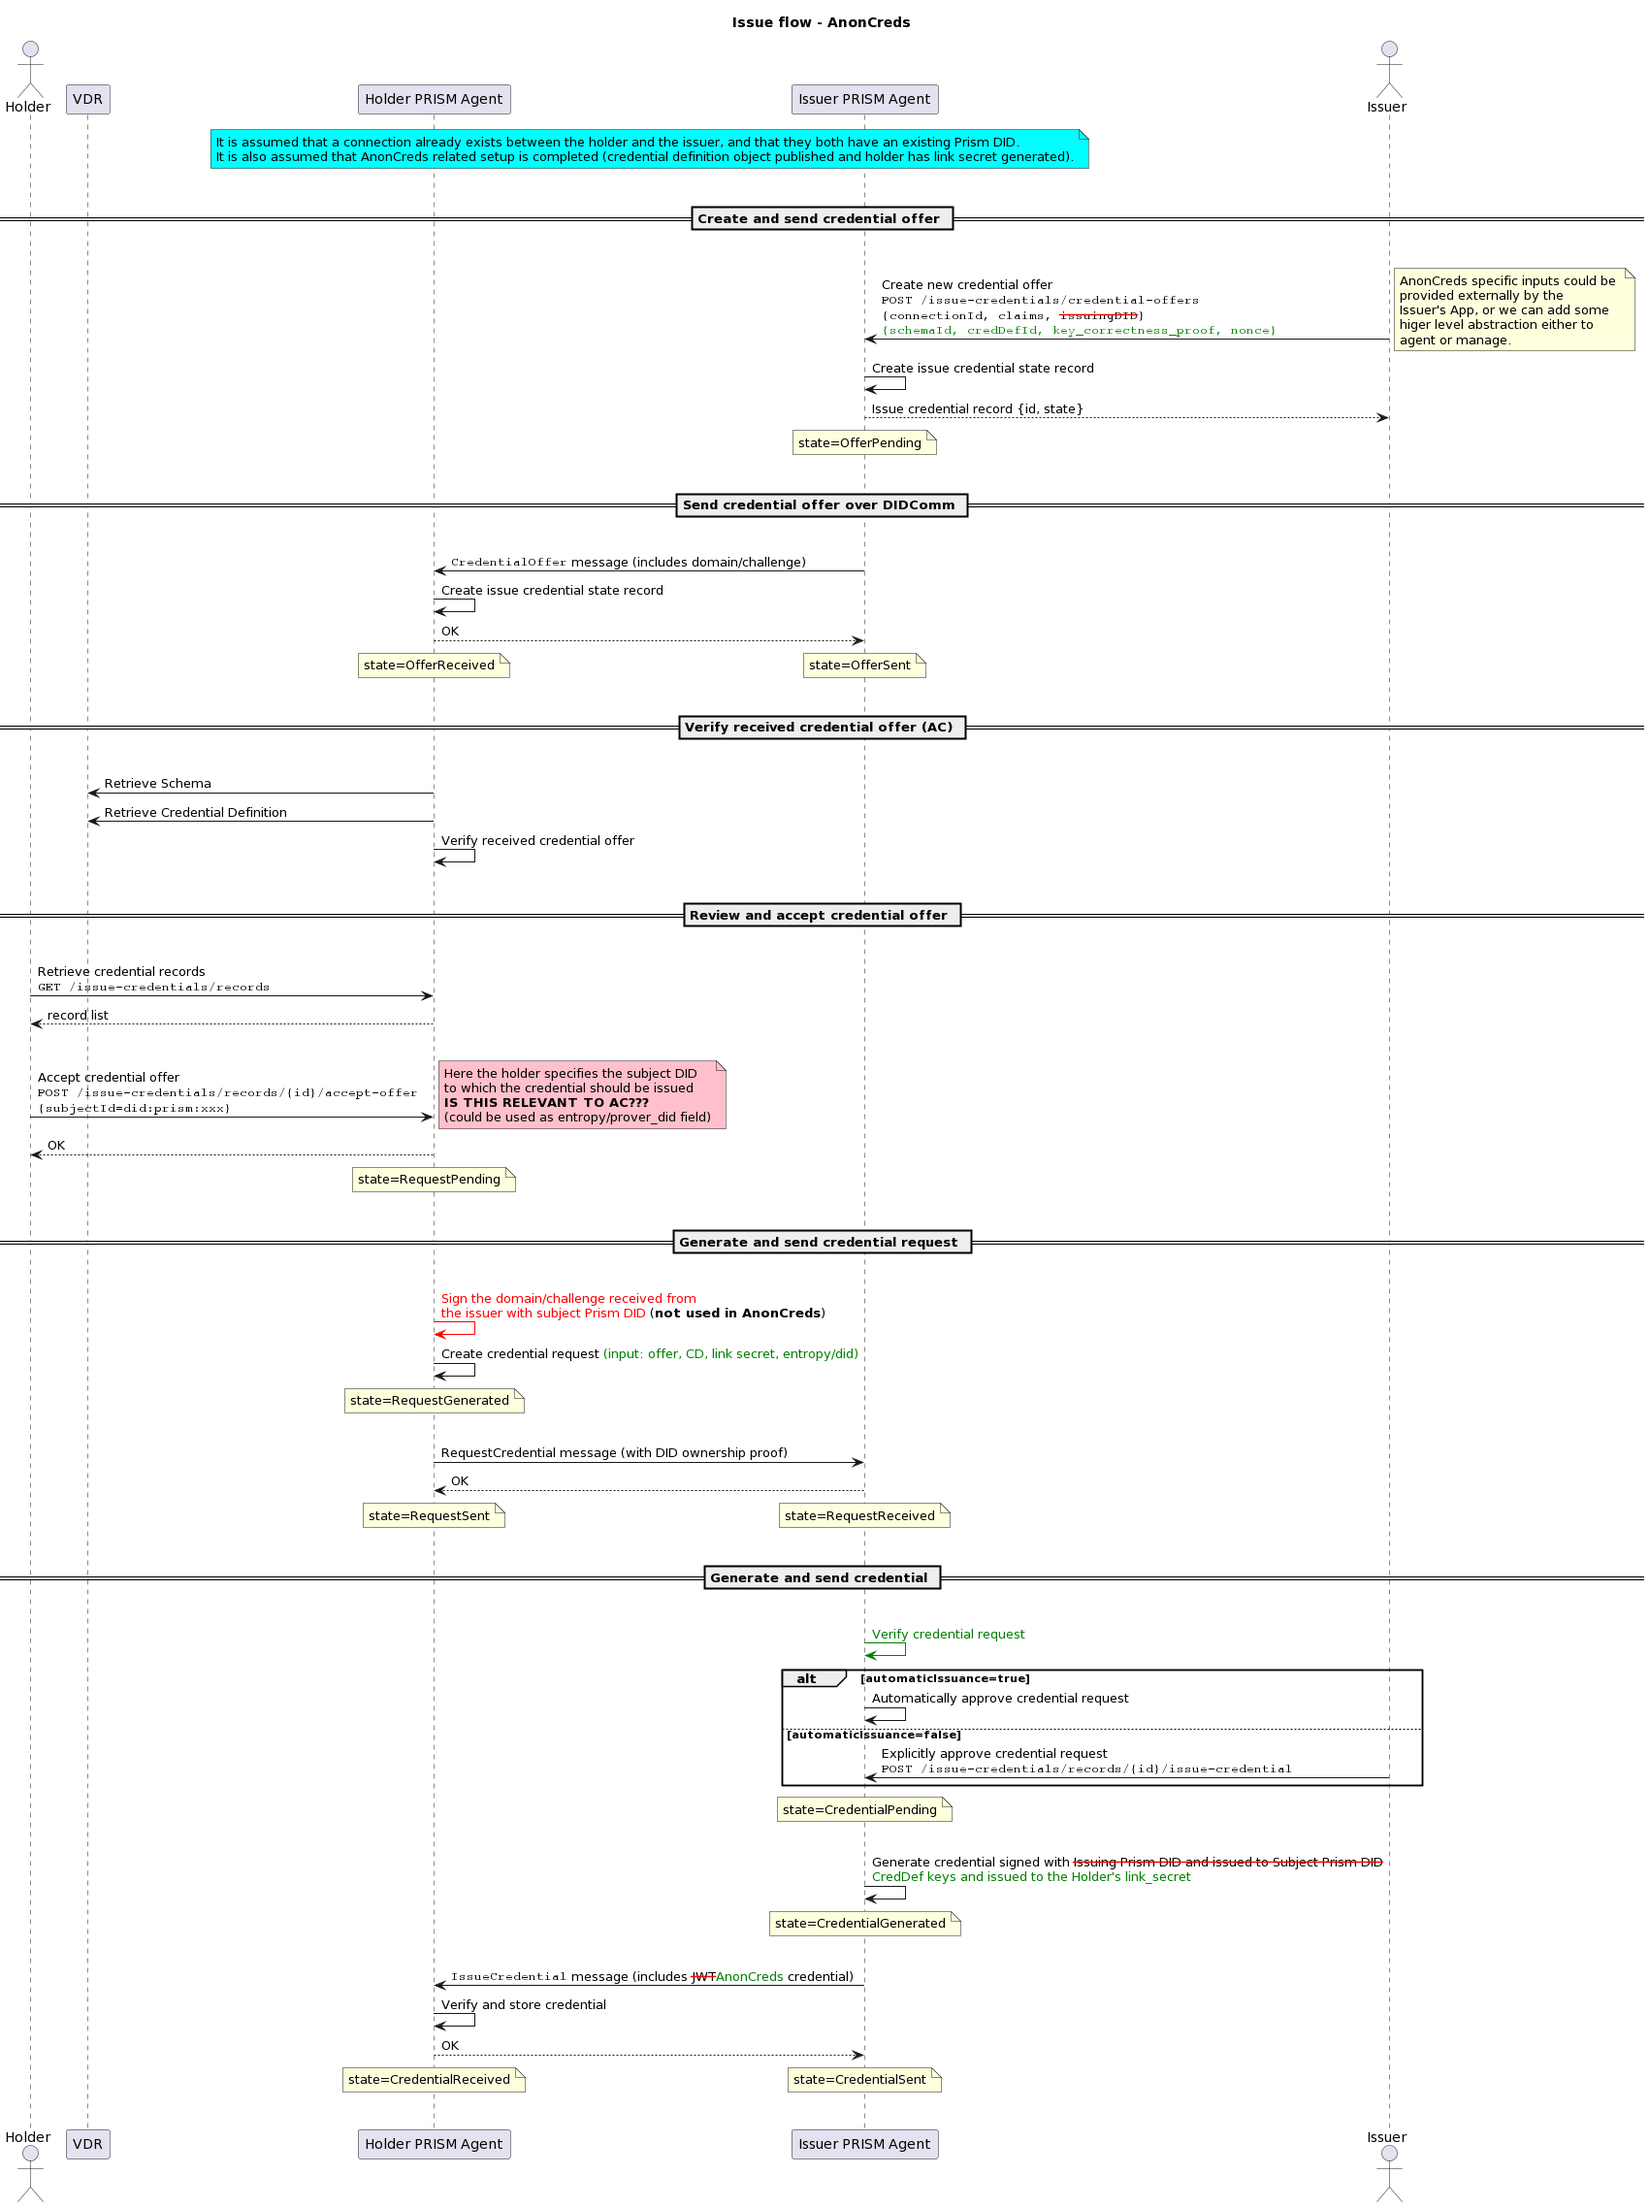
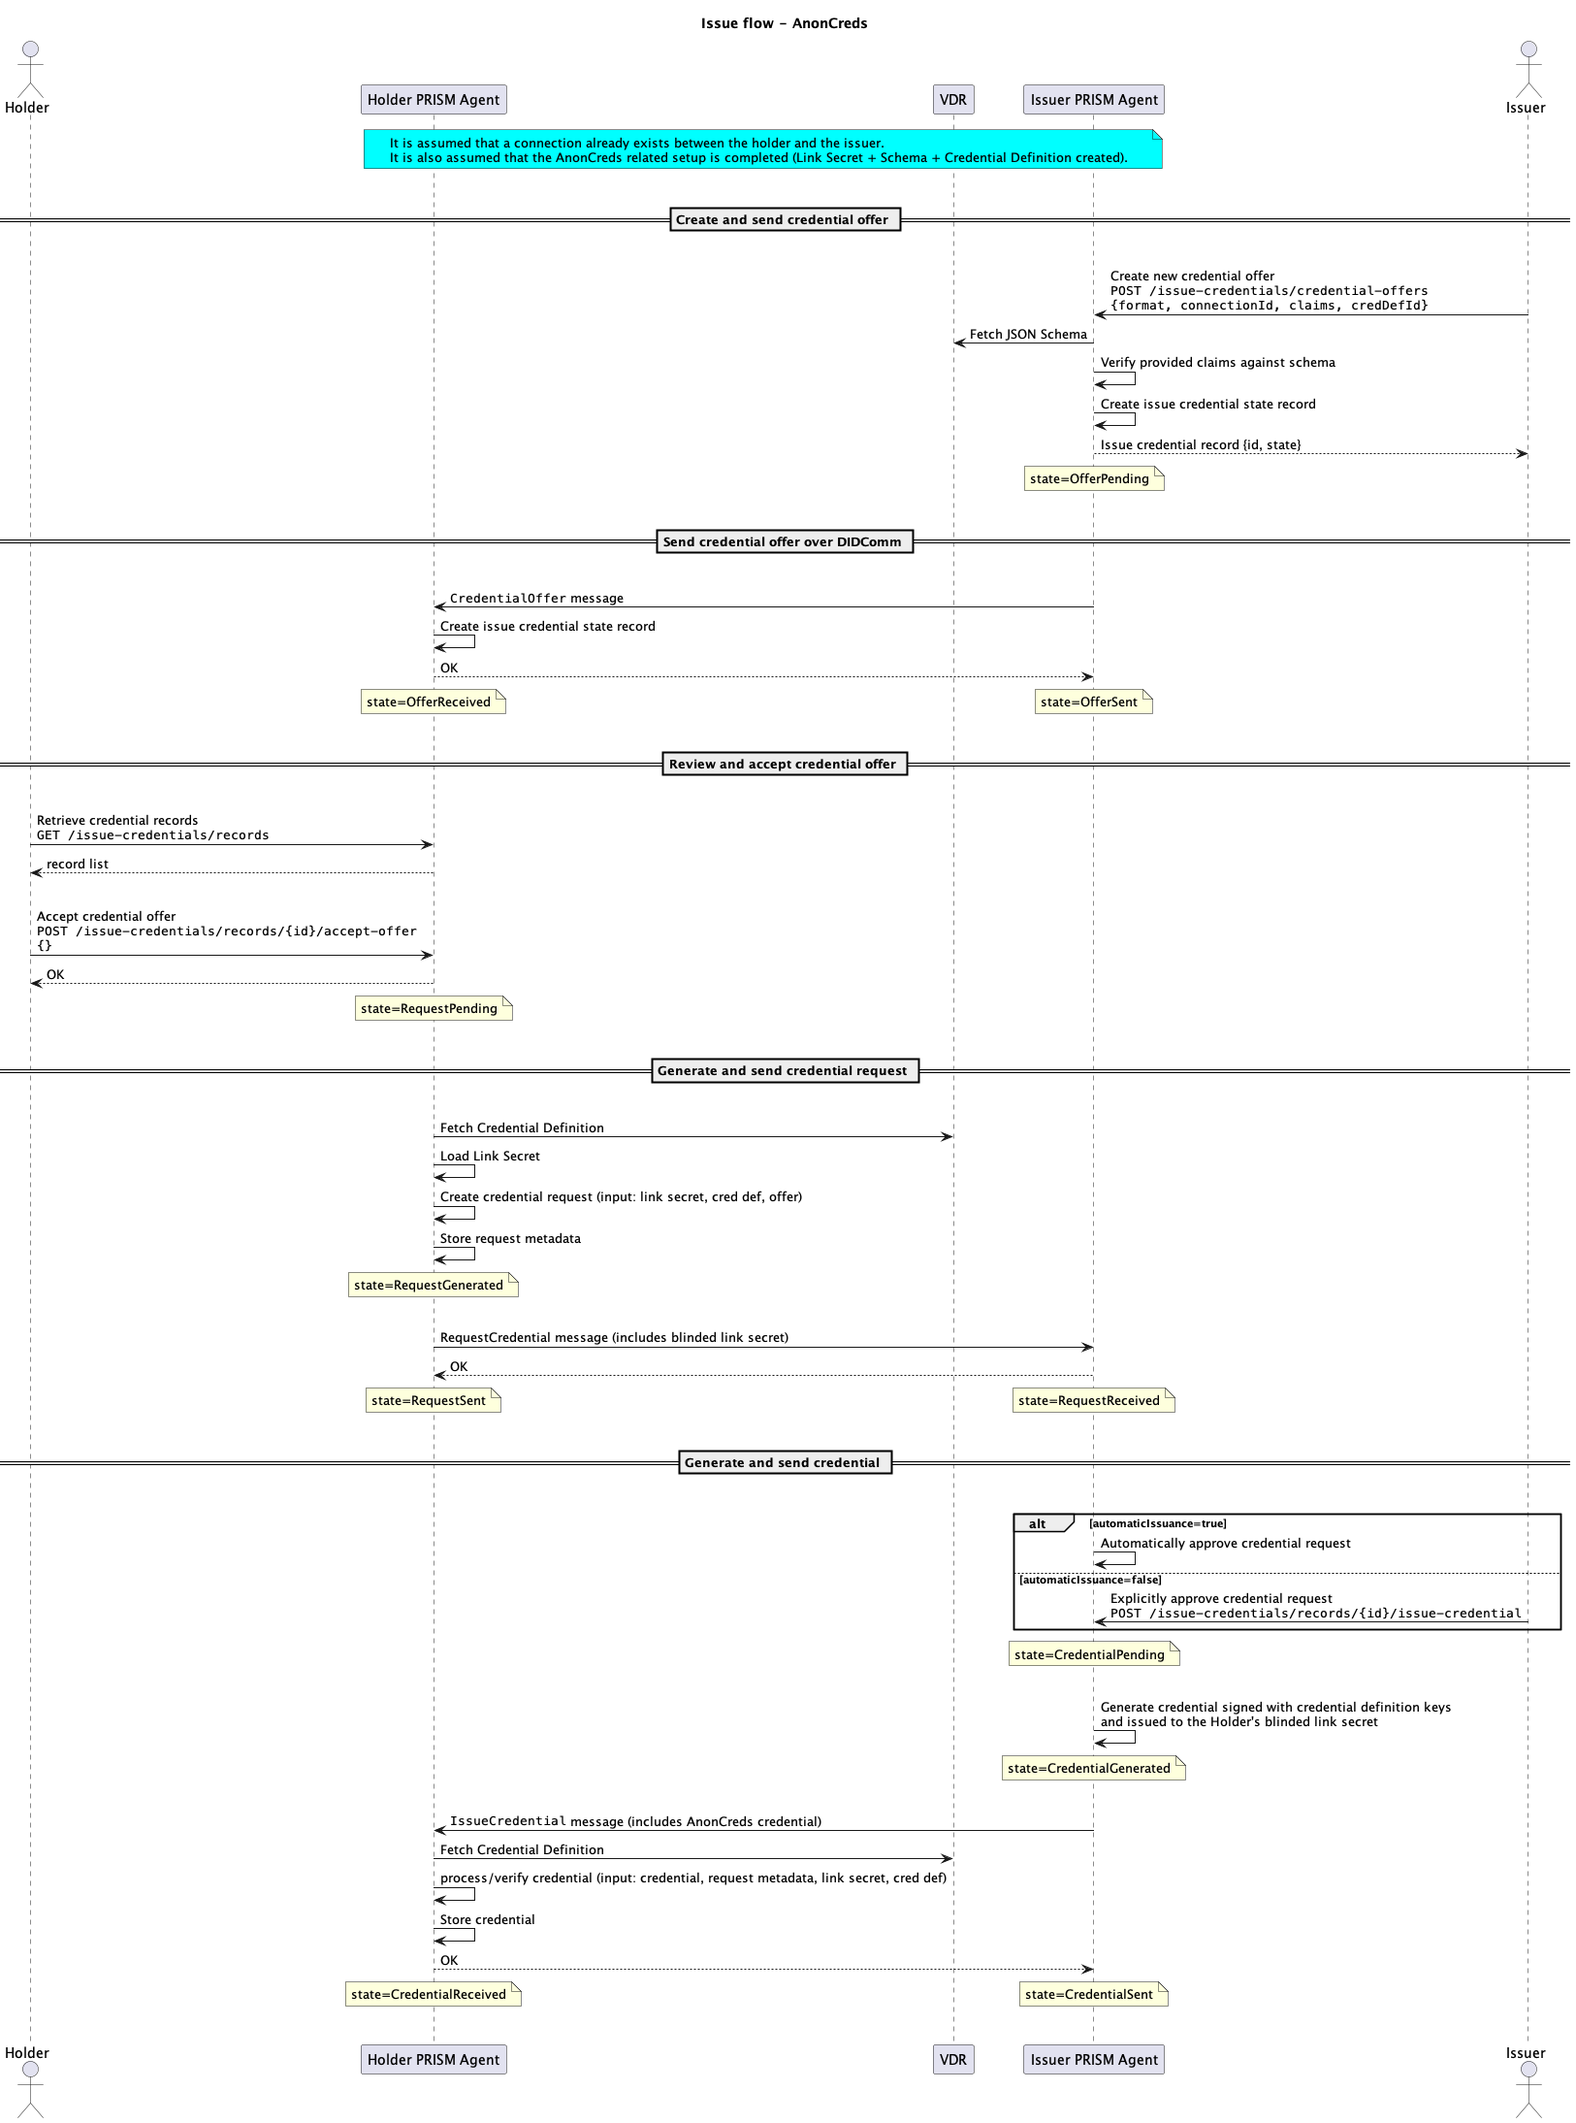
docs: add AnonCreds samples to the issue tutorial + sequence diagram

diff --git a/docs/docusaurus/credentials/issue.md b/docs/docusaurus/credentials/issue.md
@@ -1,3 +1,6 @@
+import Tabs from '@theme/Tabs';
+import TabItem from '@theme/TabItem';
+
 # Issue Credentials
 
 In Atala PRISM, the [Issue Credentials Protocol](/docs/concepts/glossary#issue-credentials-protocol) allows you to create, retrieve, and manage issued [verifiable credentials (VCs)](/docs/concepts/glossary#verifiable-credentials) between a VC issuer and a VC holder.
@@ -16,10 +19,23 @@ The Issuer and Holder interact with the PRISM Agent API to perform the operation
 
 Before using the Issuing Credentials protocol, the following conditions must be present:
 
+<Tabs groupId="vc-formats">
+<TabItem value="jwt" label="JWT">
+
 1. Issuer and Holder PRISM Agents up and running
 2. A connection must be established between the Issuer and Holder PRISM Agents (see [Connections](../connections/connection.md))
 3. The Issuer must have a published PRISM DID, and the [DID document](/docs/concepts/glossary#did-document) must have at least one `assertionMethod` key for issuing credentials (see [Create DID](../dids/create.md) and [Publish DID](../dids/publish.md))
 4. The Holder must have a PRISM DID, and the DID document must have at least one `authentication` key for presenting the proof.
+
+</TabItem>
+<TabItem value="anoncreds" label="AnonCreds">
+
+1. Issuer and Holder PRISM Agents up and running
+2. A connection must be established between the Issuer and Holder PRISM Agents (see [Connections](../connections/connection.md))
+3. The Issuer must have created an AnonCreds Credential Definition as described [here](../credential-definitions/credential-definitions.md).
+
+</TabItem>
+</Tabs>
 
 ## Overview
 
@@ -61,18 +77,21 @@ This section describes the Issuer role's available interactions with the PRISM A
 To start the process, the issuer needs to create a credential offer.
 To do this, make a `POST` request to the [`/issue-credentials/credential-offers`](/agent-api/#tag/Issue-Credentials-Protocol/operation/createCredentialOffer) endpoint with a JSON payload that includes the following information:
 
+<Tabs groupId="vc-formats">
+<TabItem value="jwt" label="JWT">
+
 1. `claims`: The data stored in a verifiable credential. Claims get expressed in a key-value format. The claims contain the data that the issuer attests to, such as name, address, date of birth, and so on.
 2. `issuingDID`: The DID referring to the issuer to issue this credential from
 3. `connectionId`: The unique ID of the connection between the holder and the issuer to offer this credential over.
-4. `schemaId`: An optional field that, if specified, contains a valid URL to an existing VC schema. 
-The PRISM agent must be able to dereference the specified URL (i.e. fetch the VC schema content from it), in order to validate the provided claims against it.
-When not specified, the claims fields is not validated and can be any valid JSON object.
-Please refer to the [Create VC schema](../schemas/create.md) doc for details on how to create a VC schema.     
+4. `schemaId`: An optional field that, if specified, contains a valid URL to an existing VC schema.
+   The PRISM agent must be able to dereference the specified URL (i.e. fetch the VC schema content from it), in order to validate the provided claims against it.
+   When not specified, the claims fields is not validated and can be any valid JSON object.
+   Please refer to the [Create VC schema](../schemas/create.md) doc for details on how to create a VC schema.
+5. `credentialFormat`: The format of the credential that will be issued - `JWT` in this case. When not specified, the default value is `JWT`. 
+
 
 :::note
-
-The issuingDID and connectionId properties come from completing the pre-requisite steps of listed above
-
+The `issuingDID` and `connectionId` properties come from completing the pre-requisite steps listed above
 :::
 
 Once the request initiates, a new credential record for the issuer gets created with a unique ID. The state of this record is now `OfferPending`.
@@ -93,11 +112,52 @@ curl -X 'POST' \
             "drivingLicenseID": "12345",
             "drivingClass": 3
           },
+          "credentialFormat": "JWT",
           "issuingDID": "did:prism:9f847f8bbb66c112f71d08ab39930d468ccbfe1e0e1d002be53d46c431212c26",
           "connectionId": "9d075518-f97e-4f11-9d10-d7348a7a0fda",
           "schemaId": "http://localhost:8080/prism-agent/schema-registry/schemas/3f86a73f-5b78-39c7-af77-0c16123fa9c2"
         }'
 ```
+
+</TabItem>
+<TabItem value="anoncreds" label="AnonCreds">
+
+1. `claims`: The data stored in a verifiable credential. AnonCreds claims get expressed in a flat, "string -> string", key-value pair format. The claims contain the data that the issuer attests to, such as name, address, date of birth, and so on.
+2. `connectionId`: The unique ID of the connection between the holder and the issuer to offer this credential over.
+3. `credentialDefinitionId`: The unique ID of the [credential definition](../credential-definitions/credential-definitions.md) that has been created by the issuer as a prerequisite. Please refer to the [Create AnonCreds Credential Definition](../credential-definitions/credential-definitions.md) doc for details on how to create a credential definition.
+4. `credentialFormat`: The format of the credential that will be issued - `AnonCreds` in this case.  
+
+:::note
+The `connectionId` and `credentialDefinitionId` properties come from completing the pre-requisite steps listed above
+:::
+
+Once the request initiates, a new credential record for the issuer gets created with a unique ID. The state of this record is now `OfferPending`.
+
+```shell
+# Issuer POST request to create a new credential offer
+curl -X 'POST' \
+  'http://localhost:8080/prism-agent/issue-credentials/credential-offers' \
+    -H 'accept: application/json' \
+    -H 'Content-Type: application/json' \
+    -H "apikey: $API_KEY" \
+    -d '{
+          "claims": {
+            "emailAddress": "alice@wonderland.com",
+            "givenName": "Alice",
+            "familyName": "Wonderland",
+            "dateOfIssuance": "2020-11-13T20:20:39+00:00",
+            "drivingLicenseID": "12345",
+            "drivingClass": "3"
+          },
+          "credentialFormat": "AnonCreds",
+          "connectionId": "9d075518-f97e-4f11-9d10-d7348a7a0fda",
+          "credentialDefinitionId": "5d737816-8fe8-3492-bfe3-1b3e2b67220b"
+        }'
+```
+
+</TabItem>
+</Tabs>
+
 
 ### Sending the Offer to the Holder
 
@@ -165,6 +225,9 @@ curl "http://localhost:8090/prism-agent/issue-credentials/records" \
 
 To accept the offer, the Holder can make a `POST` request to the [`/issue-credentials/records/{recordId}/accept-offer`](/agent-api/#tag/Issue-Credentials-Protocol/operation/acceptCredentialOffer) endpoint with a JSON payload that includes the following information:
 
+<Tabs groupId="vc-formats">
+<TabItem value="jwt" label="JWT">
+
 1. `holder_record_id`: The unique identifier of the issue credential record known by the holder PRISM Agent.
 2. `subjectId`: This field represents the unique identifier for the subject of the verifiable credential. It is a short-form PRISM [DID](/docs/concepts/glossary#decentralized-identifier) string, such as `did:prism:subjectIdentifier`.
 
@@ -178,6 +241,23 @@ curl -X POST "http://localhost:8090/prism-agent/issue-credentials/records/$holde
           "subjectId": "did:prism:subjectIdentifier"
      }'
 ```
+
+</TabItem>
+<TabItem value="anoncreds" labal="AnonCreds">
+
+1. `holder_record_id`: The unique identifier of the issue credential record known by the holder PRISM Agent.
+
+```shell
+# Holder POST request to accept the credential offer
+curl -X POST "http://localhost:8090/prism-agent/issue-credentials/records/$holder_record_id/accept-offer" \
+    -H 'accept: application/json' \
+    -H 'Content-Type: application/json' \
+    -H "apikey: $API_KEY" \
+    -d '{}'
+```
+
+</TabItem>
+</Tabs>
 
 This request will change the state of the record to `RequestPending`.
 
@@ -206,4 +286,15 @@ stateDiagram-v2
 
 The following diagram shows the end-to-end flow for an issuer to issue a VC to a holder.
 
+<Tabs groupId="vc-formats">
+<TabItem value="jwt" label="JWT">
+
 ![](issue-flow.png)
+
+</TabItem>
+<TabItem value="anoncreds" label="AnonCreds">
+
+![](anoncreds-issue-flow.png)
+
+</TabItem>
+</Tabs>
